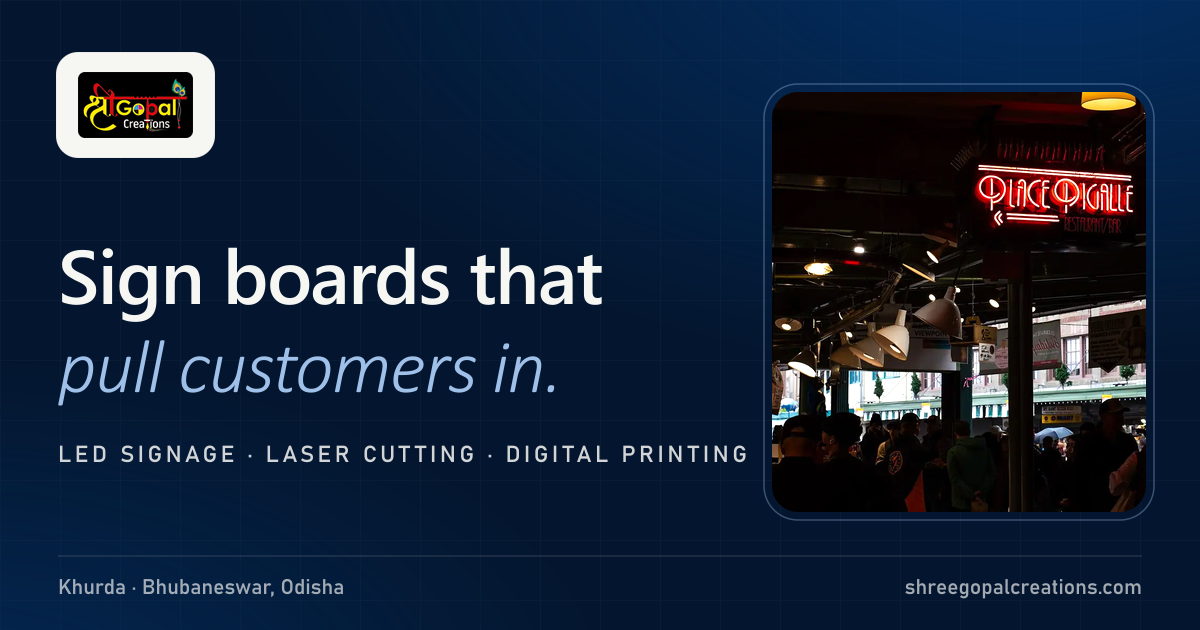
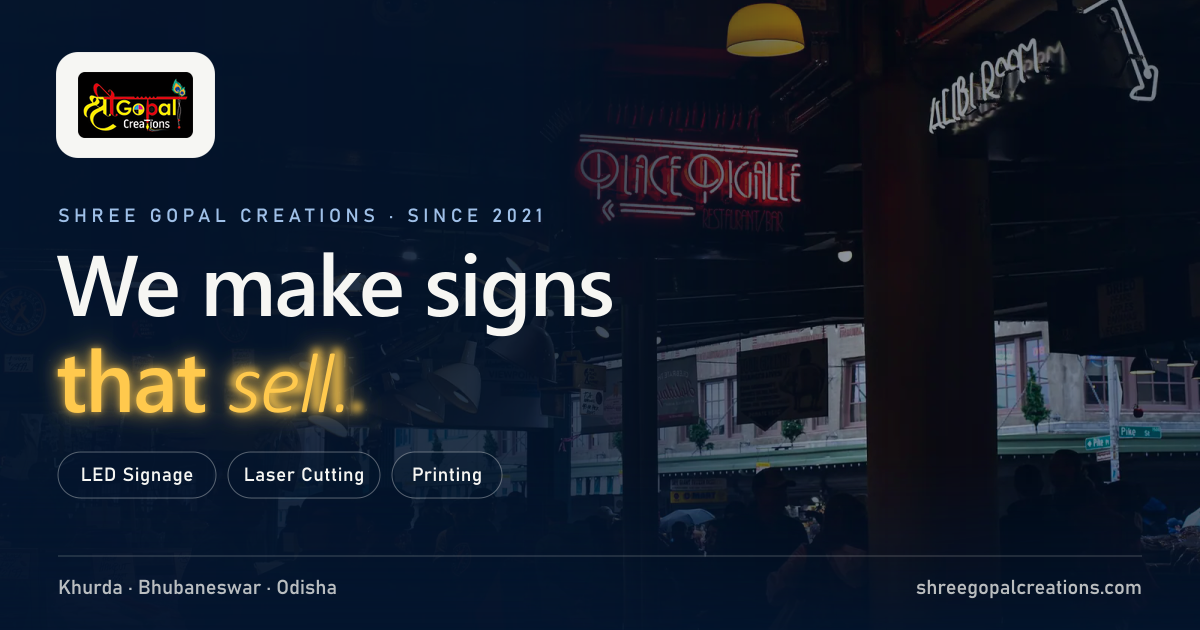
fix: update URLs to point to the new Vercel deployment and enhance SEO metadata across multiple HTML files

diff --git a/index.html b/index.html
@@ -8,23 +8,24 @@
     <meta name="theme-color" content="#04162f">
     <link rel="icon" type="image/png" href="images/favicon.png">
     <link rel="apple-touch-icon" href="images/favicon.png">
-    <link rel="canonical" href="https://patimahesweta26.github.io/shree-gopal-creation/">
+    <link rel="canonical" href="https://shree-gopal-creation.vercel.app/">
     <link rel="manifest" href="site.webmanifest">
 
     <meta property="og:type" content="website">
     <meta property="og:site_name" content="Shree Gopal Creations">
-    <meta property="og:url" content="https://patimahesweta26.github.io/shree-gopal-creation/">
+    <meta property="og:url" content="https://shree-gopal-creation.vercel.app/">
     <meta property="og:title" content="Shree Gopal Creations | Sign Boards, Laser Cutting, Khurda">
     <meta property="og:description" content="LED sign boards, acrylic letters, laser cutting and printing, made in Khurda and installed across Bhubaneswar and Odisha.">
-    <meta property="og:image" content="https://patimahesweta26.github.io/shree-gopal-creation/images/og-image.png">
+    <meta property="og:image" content="https://shree-gopal-creation.vercel.app/images/og-image.png">
     <meta property="og:image:width" content="1200">
     <meta property="og:image:height" content="630">
+    <meta property="og:image:alt" content="Shree Gopal Creations - neon sign boards glowing at night, tagline: we make signs that sell.">
     <meta property="og:locale" content="en_IN">
 
     <meta name="twitter:card" content="summary_large_image">
     <meta name="twitter:title" content="Shree Gopal Creations | Sign Boards, Laser Cutting, Khurda">
     <meta name="twitter:description" content="LED sign boards, acrylic letters, laser cutting and printing, made in Khurda and installed across Bhubaneswar and Odisha.">
-    <meta name="twitter:image" content="https://patimahesweta26.github.io/shree-gopal-creation/images/og-image.png">
+    <meta name="twitter:image" content="https://shree-gopal-creation.vercel.app/images/og-image.png">
 
     <link rel="preload" href="fonts/space-grotesk-var-latin.woff2" as="font" type="font/woff2" crossorigin>
     <link rel="preload" href="fonts/space-grotesk-var-latin-ext.woff2" as="font" type="font/woff2" crossorigin>
@@ -36,12 +37,12 @@
       "@graph": [
         {
           "@type": ["PrintShop", "LocalBusiness"],
-          "@id": "https://patimahesweta26.github.io/shree-gopal-creation/#business",
+          "@id": "https://shree-gopal-creation.vercel.app/#business",
           "name": "Shree Gopal Creations",
           "description": "Manufacturer of LED sign boards, acrylic 3D letters, aluminium channel letters and name plates; provider of laser cutting, router cutting, digital printing and flex/vinyl printing services.",
-          "url": "https://patimahesweta26.github.io/shree-gopal-creation/",
-          "logo": "https://patimahesweta26.github.io/shree-gopal-creation/images/logo.png",
-          "image": "https://patimahesweta26.github.io/shree-gopal-creation/images/og-image.png",
+          "url": "https://shree-gopal-creation.vercel.app/",
+          "logo": "https://shree-gopal-creation.vercel.app/images/logo.png",
+          "image": "https://shree-gopal-creation.vercel.app/images/og-image.png",
           "telephone": "+91-7315127341",
           "email": "info@shreegopalcreations.com",
           "foundingDate": "2021",
@@ -67,23 +68,23 @@
             "@type": "OfferCatalog",
             "name": "Signage and printing services",
             "itemListElement": [
-              { "@type": "Offer", "itemOffered": { "@type": "Service", "name": "LED Signage", "url": "https://patimahesweta26.github.io/shree-gopal-creation/led-signage.html" } },
-              { "@type": "Offer", "itemOffered": { "@type": "Service", "name": "Laser & Router Cutting", "url": "https://patimahesweta26.github.io/shree-gopal-creation/laser-router-cutting.html" } },
-              { "@type": "Offer", "itemOffered": { "@type": "Service", "name": "Digital Printing", "url": "https://patimahesweta26.github.io/shree-gopal-creation/digital-printing.html" } },
-              { "@type": "Offer", "itemOffered": { "@type": "Service", "name": "Flex & Vinyl Printing", "url": "https://patimahesweta26.github.io/shree-gopal-creation/flex-vinyl-printing.html" } }
+              { "@type": "Offer", "itemOffered": { "@type": "Service", "name": "LED Signage", "url": "https://shree-gopal-creation.vercel.app/led-signage.html" } },
+              { "@type": "Offer", "itemOffered": { "@type": "Service", "name": "Laser & Router Cutting", "url": "https://shree-gopal-creation.vercel.app/laser-router-cutting.html" } },
+              { "@type": "Offer", "itemOffered": { "@type": "Service", "name": "Digital Printing", "url": "https://shree-gopal-creation.vercel.app/digital-printing.html" } },
+              { "@type": "Offer", "itemOffered": { "@type": "Service", "name": "Flex & Vinyl Printing", "url": "https://shree-gopal-creation.vercel.app/flex-vinyl-printing.html" } }
             ]
           }
         },
         {
           "@type": "WebSite",
-          "@id": "https://patimahesweta26.github.io/shree-gopal-creation/#website",
-          "url": "https://patimahesweta26.github.io/shree-gopal-creation/",
+          "@id": "https://shree-gopal-creation.vercel.app/#website",
+          "url": "https://shree-gopal-creation.vercel.app/",
           "name": "Shree Gopal Creations",
-          "publisher": { "@id": "https://patimahesweta26.github.io/shree-gopal-creation/#business" }
+          "publisher": { "@id": "https://shree-gopal-creation.vercel.app/#business" }
         },
         {
           "@type": "FAQPage",
-          "@id": "https://patimahesweta26.github.io/shree-gopal-creation/#faq",
+          "@id": "https://shree-gopal-creation.vercel.app/#faq",
           "mainEntity": [
             {
               "@type": "Question",

diff --git a/laser-router-cutting.html b/laser-router-cutting.html
@@ -8,22 +8,23 @@
     <meta name="theme-color" content="#04162f">
     <link rel="icon" type="image/png" href="images/favicon.png">
     <link rel="apple-touch-icon" href="images/favicon.png">
-    <link rel="canonical" href="https://patimahesweta26.github.io/shree-gopal-creation/laser-router-cutting.html">
+    <link rel="canonical" href="https://shree-gopal-creation.vercel.app/laser-router-cutting.html">
 
     <meta property="og:type" content="website">
     <meta property="og:site_name" content="Shree Gopal Creations">
-    <meta property="og:url" content="https://patimahesweta26.github.io/shree-gopal-creation/laser-router-cutting.html">
+    <meta property="og:url" content="https://shree-gopal-creation.vercel.app/laser-router-cutting.html">
     <meta property="og:title" content="Laser and Router Cutting Services in Khurda | Shree Gopal">
     <meta property="og:description" content="Laser and router cutting for acrylic, MDF, ACP and wood in Khurda - single pieces to bulk batches, fast turnaround.">
-    <meta property="og:image" content="https://patimahesweta26.github.io/shree-gopal-creation/images/og-image.png">
+    <meta property="og:image" content="https://shree-gopal-creation.vercel.app/images/og-image.png">
     <meta property="og:image:width" content="1200">
     <meta property="og:image:height" content="630">
+    <meta property="og:image:alt" content="Shree Gopal Creations - neon sign boards glowing at night, tagline: we make signs that sell.">
     <meta property="og:locale" content="en_IN">
 
     <meta name="twitter:card" content="summary_large_image">
     <meta name="twitter:title" content="Laser and Router Cutting Services in Khurda | Shree Gopal">
     <meta name="twitter:description" content="Laser and router cutting for acrylic, MDF, ACP and wood in Khurda - single pieces to bulk batches, fast turnaround.">
-    <meta name="twitter:image" content="https://patimahesweta26.github.io/shree-gopal-creation/images/og-image.png">
+    <meta name="twitter:image" content="https://shree-gopal-creation.vercel.app/images/og-image.png">
 
     <link rel="preload" href="fonts/space-grotesk-var-latin.woff2" as="font" type="font/woff2" crossorigin>
     <link rel="preload" href="fonts/space-grotesk-var-latin-ext.woff2" as="font" type="font/woff2" crossorigin>
@@ -37,16 +38,16 @@
           "@type": "Service",
           "name": "Laser & Router Cutting",
           "serviceType": "Laser cutting and CNC router cutting services",
-          "url": "https://patimahesweta26.github.io/shree-gopal-creation/laser-router-cutting.html",
+          "url": "https://shree-gopal-creation.vercel.app/laser-router-cutting.html",
           "description": "Precision laser cutting of acrylic and wood plus CNC router work on ACP, MDF and composite sheets for signage, decor and industrial parts.",
-          "provider": { "@id": "https://patimahesweta26.github.io/shree-gopal-creation/#business" },
+          "provider": { "@id": "https://shree-gopal-creation.vercel.app/#business" },
           "areaServed": ["Khurda", "Bhubaneswar", "Odisha"]
         },
         {
           "@type": "BreadcrumbList",
           "itemListElement": [
-            { "@type": "ListItem", "position": 1, "name": "Home", "item": "https://patimahesweta26.github.io/shree-gopal-creation/" },
-            { "@type": "ListItem", "position": 2, "name": "Laser & Router Cutting", "item": "https://patimahesweta26.github.io/shree-gopal-creation/laser-router-cutting.html" }
+            { "@type": "ListItem", "position": 1, "name": "Home", "item": "https://shree-gopal-creation.vercel.app/" },
+            { "@type": "ListItem", "position": 2, "name": "Laser & Router Cutting", "item": "https://shree-gopal-creation.vercel.app/laser-router-cutting.html" }
           ]
         },
         {

diff --git a/flex-vinyl-printing.html b/flex-vinyl-printing.html
@@ -8,22 +8,23 @@
     <meta name="theme-color" content="#04162f">
     <link rel="icon" type="image/png" href="images/favicon.png">
     <link rel="apple-touch-icon" href="images/favicon.png">
-    <link rel="canonical" href="https://patimahesweta26.github.io/shree-gopal-creation/flex-vinyl-printing.html">
+    <link rel="canonical" href="https://shree-gopal-creation.vercel.app/flex-vinyl-printing.html">
 
     <meta property="og:type" content="website">
     <meta property="og:site_name" content="Shree Gopal Creations">
-    <meta property="og:url" content="https://patimahesweta26.github.io/shree-gopal-creation/flex-vinyl-printing.html">
+    <meta property="og:url" content="https://shree-gopal-creation.vercel.app/flex-vinyl-printing.html">
     <meta property="og:title" content="Flex and Vinyl Printing in Bhubaneswar | Shree Gopal">
     <meta property="og:description" content="Weather-proof flex banners, vinyl pasting and event branding from 280 to 450 GSM - printed in Khurda, installed in Odisha.">
-    <meta property="og:image" content="https://patimahesweta26.github.io/shree-gopal-creation/images/og-image.png">
+    <meta property="og:image" content="https://shree-gopal-creation.vercel.app/images/og-image.png">
     <meta property="og:image:width" content="1200">
     <meta property="og:image:height" content="630">
+    <meta property="og:image:alt" content="Shree Gopal Creations - neon sign boards glowing at night, tagline: we make signs that sell.">
     <meta property="og:locale" content="en_IN">
 
     <meta name="twitter:card" content="summary_large_image">
     <meta name="twitter:title" content="Flex and Vinyl Printing in Bhubaneswar | Shree Gopal">
     <meta name="twitter:description" content="Weather-proof flex banners, vinyl pasting and event branding from 280 to 450 GSM - printed in Khurda, installed in Odisha.">
-    <meta name="twitter:image" content="https://patimahesweta26.github.io/shree-gopal-creation/images/og-image.png">
+    <meta name="twitter:image" content="https://shree-gopal-creation.vercel.app/images/og-image.png">
 
     <link rel="preload" href="fonts/space-grotesk-var-latin.woff2" as="font" type="font/woff2" crossorigin>
     <link rel="preload" href="fonts/space-grotesk-var-latin-ext.woff2" as="font" type="font/woff2" crossorigin>
@@ -37,16 +38,16 @@
           "@type": "Service",
           "name": "Flex & Vinyl Printing",
           "serviceType": "Flex banner and vinyl printing services",
-          "url": "https://patimahesweta26.github.io/shree-gopal-creation/flex-vinyl-printing.html",
+          "url": "https://shree-gopal-creation.vercel.app/flex-vinyl-printing.html",
           "description": "Outdoor-grade flex banner printing from 280 to 450 GSM, vinyl pasting, one-way vision film, hoardings and complete event branding.",
-          "provider": { "@id": "https://patimahesweta26.github.io/shree-gopal-creation/#business" },
+          "provider": { "@id": "https://shree-gopal-creation.vercel.app/#business" },
           "areaServed": ["Khurda", "Bhubaneswar", "Odisha"]
         },
         {
           "@type": "BreadcrumbList",
           "itemListElement": [
-            { "@type": "ListItem", "position": 1, "name": "Home", "item": "https://patimahesweta26.github.io/shree-gopal-creation/" },
-            { "@type": "ListItem", "position": 2, "name": "Flex & Vinyl Printing", "item": "https://patimahesweta26.github.io/shree-gopal-creation/flex-vinyl-printing.html" }
+            { "@type": "ListItem", "position": 1, "name": "Home", "item": "https://shree-gopal-creation.vercel.app/" },
+            { "@type": "ListItem", "position": 2, "name": "Flex & Vinyl Printing", "item": "https://shree-gopal-creation.vercel.app/flex-vinyl-printing.html" }
           ]
         },
         {

diff --git a/led-signage.html b/led-signage.html
@@ -8,22 +8,23 @@
     <meta name="theme-color" content="#04162f">
     <link rel="icon" type="image/png" href="images/favicon.png">
     <link rel="apple-touch-icon" href="images/favicon.png">
-    <link rel="canonical" href="https://patimahesweta26.github.io/shree-gopal-creation/led-signage.html">
+    <link rel="canonical" href="https://shree-gopal-creation.vercel.app/led-signage.html">
 
     <meta property="og:type" content="website">
     <meta property="og:site_name" content="Shree Gopal Creations">
-    <meta property="og:url" content="https://patimahesweta26.github.io/shree-gopal-creation/led-signage.html">
+    <meta property="og:url" content="https://shree-gopal-creation.vercel.app/led-signage.html">
     <meta property="og:title" content="LED Sign Boards in Bhubaneswar and Khurda | Shree Gopal">
     <meta property="og:description" content="Glow signs, acrylic 3D letters and backlit boards, fabricated with branded LED modules and installed by our own crew.">
-    <meta property="og:image" content="https://patimahesweta26.github.io/shree-gopal-creation/images/og-image.png">
+    <meta property="og:image" content="https://shree-gopal-creation.vercel.app/images/og-image.png">
     <meta property="og:image:width" content="1200">
     <meta property="og:image:height" content="630">
+    <meta property="og:image:alt" content="Shree Gopal Creations - neon sign boards glowing at night, tagline: we make signs that sell.">
     <meta property="og:locale" content="en_IN">
 
     <meta name="twitter:card" content="summary_large_image">
     <meta name="twitter:title" content="LED Sign Boards in Bhubaneswar and Khurda | Shree Gopal">
     <meta name="twitter:description" content="Glow signs, acrylic 3D letters and backlit boards, fabricated with branded LED modules and installed by our own crew.">
-    <meta name="twitter:image" content="https://patimahesweta26.github.io/shree-gopal-creation/images/og-image.png">
+    <meta name="twitter:image" content="https://shree-gopal-creation.vercel.app/images/og-image.png">
 
     <link rel="preload" href="fonts/space-grotesk-var-latin.woff2" as="font" type="font/woff2" crossorigin>
     <link rel="preload" href="fonts/space-grotesk-var-latin-ext.woff2" as="font" type="font/woff2" crossorigin>
@@ -37,16 +38,16 @@
           "@type": "Service",
           "name": "LED Signage",
           "serviceType": "LED sign board manufacturing and installation",
-          "url": "https://patimahesweta26.github.io/shree-gopal-creation/led-signage.html",
+          "url": "https://shree-gopal-creation.vercel.app/led-signage.html",
           "description": "Manufacture and installation of glow sign boards, acrylic 3D letters, backlit boards, reverse channel letters and aluminium channel letters.",
-          "provider": { "@id": "https://patimahesweta26.github.io/shree-gopal-creation/#business" },
+          "provider": { "@id": "https://shree-gopal-creation.vercel.app/#business" },
           "areaServed": ["Khurda", "Bhubaneswar", "Odisha"]
         },
         {
           "@type": "BreadcrumbList",
           "itemListElement": [
-            { "@type": "ListItem", "position": 1, "name": "Home", "item": "https://patimahesweta26.github.io/shree-gopal-creation/" },
-            { "@type": "ListItem", "position": 2, "name": "LED Signage", "item": "https://patimahesweta26.github.io/shree-gopal-creation/led-signage.html" }
+            { "@type": "ListItem", "position": 1, "name": "Home", "item": "https://shree-gopal-creation.vercel.app/" },
+            { "@type": "ListItem", "position": 2, "name": "LED Signage", "item": "https://shree-gopal-creation.vercel.app/led-signage.html" }
           ]
         },
         {

diff --git a/digital-printing.html b/digital-printing.html
@@ -8,22 +8,23 @@
     <meta name="theme-color" content="#04162f">
     <link rel="icon" type="image/png" href="images/favicon.png">
     <link rel="apple-touch-icon" href="images/favicon.png">
-    <link rel="canonical" href="https://patimahesweta26.github.io/shree-gopal-creation/digital-printing.html">
+    <link rel="canonical" href="https://shree-gopal-creation.vercel.app/digital-printing.html">
 
     <meta property="og:type" content="website">
     <meta property="og:site_name" content="Shree Gopal Creations">
-    <meta property="og:url" content="https://patimahesweta26.github.io/shree-gopal-creation/digital-printing.html">
+    <meta property="og:url" content="https://shree-gopal-creation.vercel.app/digital-printing.html">
     <meta property="og:title" content="Digital Printing Services in Khurda | Shree Gopal Creations">
     <meta property="og:description" content="Posters, stickers, backdrops and stationery printed sharp on large-format machines in Khurda.">
-    <meta property="og:image" content="https://patimahesweta26.github.io/shree-gopal-creation/images/og-image.png">
+    <meta property="og:image" content="https://shree-gopal-creation.vercel.app/images/og-image.png">
     <meta property="og:image:width" content="1200">
     <meta property="og:image:height" content="630">
+    <meta property="og:image:alt" content="Shree Gopal Creations - neon sign boards glowing at night, tagline: we make signs that sell.">
     <meta property="og:locale" content="en_IN">
 
     <meta name="twitter:card" content="summary_large_image">
     <meta name="twitter:title" content="Digital Printing Services in Khurda | Shree Gopal Creations">
     <meta name="twitter:description" content="Posters, stickers, backdrops and stationery printed sharp on large-format machines in Khurda.">
-    <meta name="twitter:image" content="https://patimahesweta26.github.io/shree-gopal-creation/images/og-image.png">
+    <meta name="twitter:image" content="https://shree-gopal-creation.vercel.app/images/og-image.png">
 
     <link rel="preload" href="fonts/space-grotesk-var-latin.woff2" as="font" type="font/woff2" crossorigin>
     <link rel="preload" href="fonts/space-grotesk-var-latin-ext.woff2" as="font" type="font/woff2" crossorigin>
@@ -37,16 +38,16 @@
           "@type": "Service",
           "name": "Digital Printing",
           "serviceType": "Large format digital printing",
-          "url": "https://patimahesweta26.github.io/shree-gopal-creation/digital-printing.html",
+          "url": "https://shree-gopal-creation.vercel.app/digital-printing.html",
           "description": "Large-format digital printing for posters, danglers, die-cut stickers, labels, backdrops and business stationery.",
-          "provider": { "@id": "https://patimahesweta26.github.io/shree-gopal-creation/#business" },
+          "provider": { "@id": "https://shree-gopal-creation.vercel.app/#business" },
           "areaServed": ["Khurda", "Bhubaneswar", "Odisha"]
         },
         {
           "@type": "BreadcrumbList",
           "itemListElement": [
-            { "@type": "ListItem", "position": 1, "name": "Home", "item": "https://patimahesweta26.github.io/shree-gopal-creation/" },
-            { "@type": "ListItem", "position": 2, "name": "Digital Printing", "item": "https://patimahesweta26.github.io/shree-gopal-creation/digital-printing.html" }
+            { "@type": "ListItem", "position": 1, "name": "Home", "item": "https://shree-gopal-creation.vercel.app/" },
+            { "@type": "ListItem", "position": 2, "name": "Digital Printing", "item": "https://shree-gopal-creation.vercel.app/digital-printing.html" }
           ]
         },
         {

diff --git a/privacy.html b/privacy.html
@@ -8,22 +8,23 @@
     <meta name="theme-color" content="#04162f">
     <link rel="icon" type="image/png" href="images/favicon.png">
     <link rel="apple-touch-icon" href="images/favicon.png">
-    <link rel="canonical" href="https://patimahesweta26.github.io/shree-gopal-creation/privacy.html">
+    <link rel="canonical" href="https://shree-gopal-creation.vercel.app/privacy.html">
 
     <meta property="og:type" content="website">
     <meta property="og:site_name" content="Shree Gopal Creations">
-    <meta property="og:url" content="https://patimahesweta26.github.io/shree-gopal-creation/privacy.html">
+    <meta property="og:url" content="https://shree-gopal-creation.vercel.app/privacy.html">
     <meta property="og:title" content="Privacy and Image Credits | Shree Gopal Creations">
     <meta property="og:description" content="How we handle information shared through this website, and credits for site photography.">
-    <meta property="og:image" content="https://patimahesweta26.github.io/shree-gopal-creation/images/og-image.png">
+    <meta property="og:image" content="https://shree-gopal-creation.vercel.app/images/og-image.png">
     <meta property="og:image:width" content="1200">
     <meta property="og:image:height" content="630">
+    <meta property="og:image:alt" content="Shree Gopal Creations - neon sign boards glowing at night, tagline: we make signs that sell.">
     <meta property="og:locale" content="en_IN">
 
     <meta name="twitter:card" content="summary_large_image">
     <meta name="twitter:title" content="Privacy and Image Credits | Shree Gopal Creations">
     <meta name="twitter:description" content="How we handle information shared through this website, and credits for site photography.">
-    <meta name="twitter:image" content="https://patimahesweta26.github.io/shree-gopal-creation/images/og-image.png">
+    <meta name="twitter:image" content="https://shree-gopal-creation.vercel.app/images/og-image.png">
 
     <link rel="preload" href="fonts/space-grotesk-var-latin.woff2" as="font" type="font/woff2" crossorigin>
     <link rel="preload" href="fonts/space-grotesk-var-latin-ext.woff2" as="font" type="font/woff2" crossorigin>
@@ -34,7 +35,7 @@
       "@context": "https://schema.org",
       "@type": "WebPage",
       "name": "Privacy & Image Credits",
-      "url": "https://patimahesweta26.github.io/shree-gopal-creation/privacy.html"
+      "url": "https://shree-gopal-creation.vercel.app/privacy.html"
     }
     </script>
 </head>

diff --git a/404.html b/404.html
@@ -8,22 +8,23 @@
     <meta name="robots" content="noindex">
     <meta name="theme-color" content="#04162f">
     <link rel="icon" type="image/png" href="images/favicon.png">
-    <link rel="canonical" href="https://patimahesweta26.github.io/shree-gopal-creation/404.html">
+    <link rel="canonical" href="https://shree-gopal-creation.vercel.app/404.html">
 
     <meta property="og:type" content="website">
     <meta property="og:site_name" content="Shree Gopal Creations">
-    <meta property="og:url" content="https://patimahesweta26.github.io/shree-gopal-creation/404.html">
+    <meta property="og:url" content="https://shree-gopal-creation.vercel.app/404.html">
     <meta property="og:title" content="Page Not Found | Shree Gopal Creations">
     <meta property="og:description" content="This page does not exist. Head back to the Shree Gopal Creations website.">
-    <meta property="og:image" content="https://patimahesweta26.github.io/shree-gopal-creation/images/og-image.png">
+    <meta property="og:image" content="https://shree-gopal-creation.vercel.app/images/og-image.png">
     <meta property="og:image:width" content="1200">
     <meta property="og:image:height" content="630">
+    <meta property="og:image:alt" content="Shree Gopal Creations - neon sign boards glowing at night, tagline: we make signs that sell.">
     <meta property="og:locale" content="en_IN">
 
     <meta name="twitter:card" content="summary_large_image">
     <meta name="twitter:title" content="Page Not Found | Shree Gopal Creations">
     <meta name="twitter:description" content="This page does not exist. Head back to the Shree Gopal Creations website.">
-    <meta name="twitter:image" content="https://patimahesweta26.github.io/shree-gopal-creation/images/og-image.png">
+    <meta name="twitter:image" content="https://shree-gopal-creation.vercel.app/images/og-image.png">
 
     <link rel="preload" href="fonts/space-grotesk-var-latin.woff2" as="font" type="font/woff2" crossorigin>
     <link rel="preload" href="fonts/space-grotesk-var-latin-ext.woff2" as="font" type="font/woff2" crossorigin>
@@ -34,7 +35,7 @@
       "@context": "https://schema.org",
       "@type": "WebPage",
       "name": "Page not found",
-      "url": "https://patimahesweta26.github.io/shree-gopal-creation/404.html"
+      "url": "https://shree-gopal-creation.vercel.app/404.html"
     }
     </script>
 </head>
